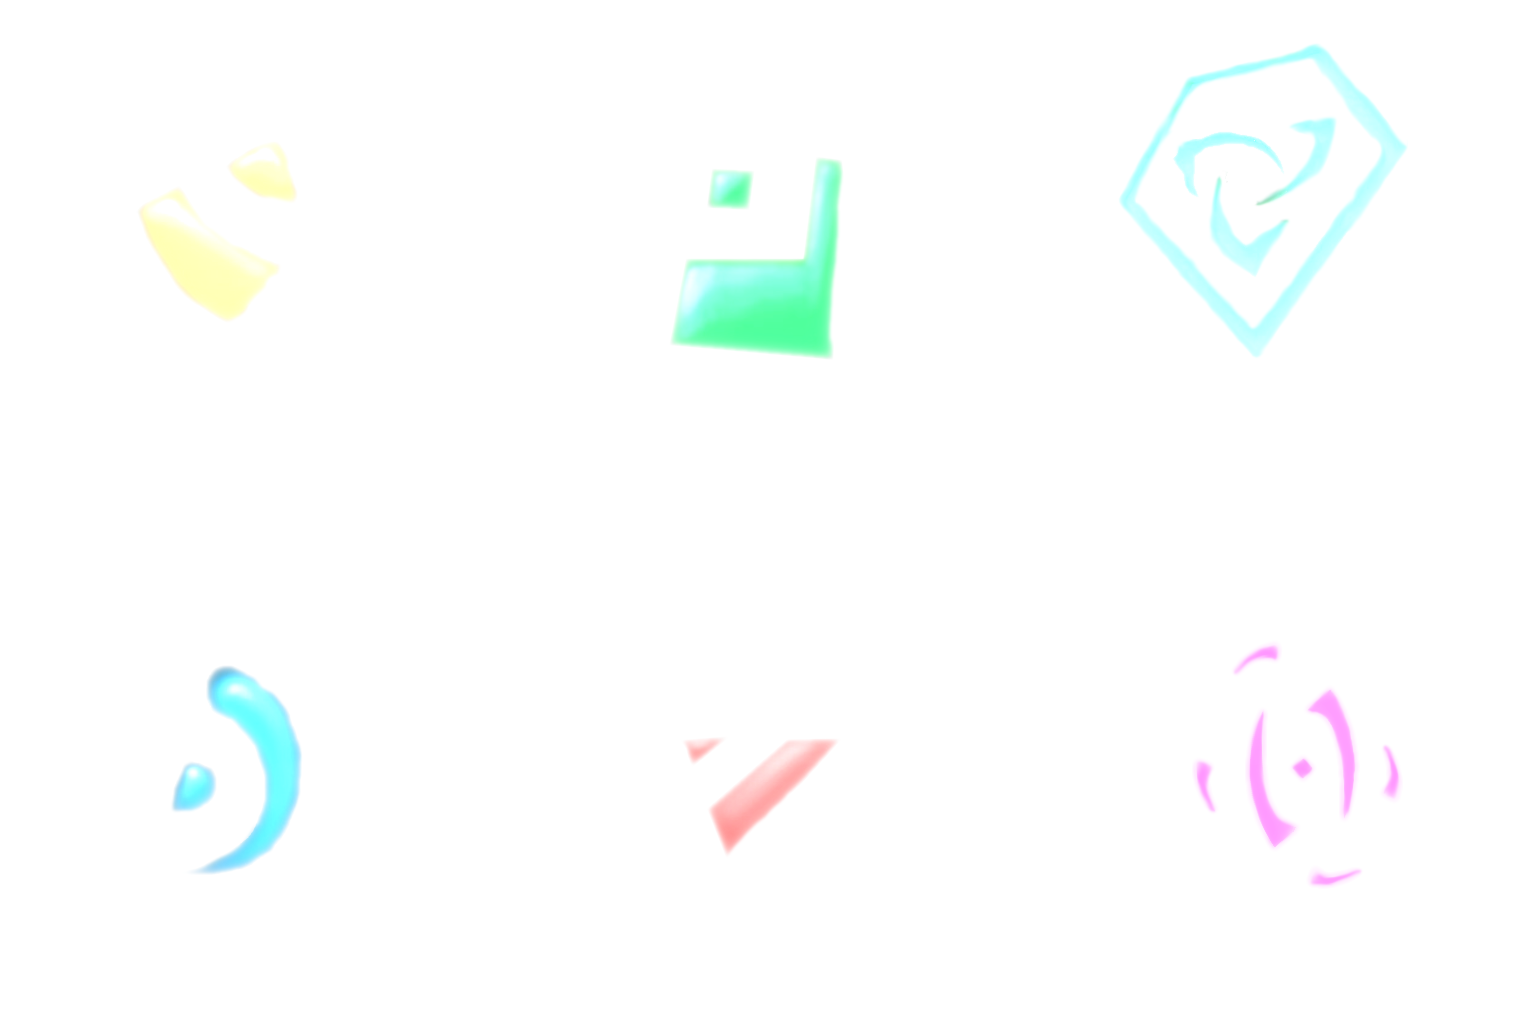
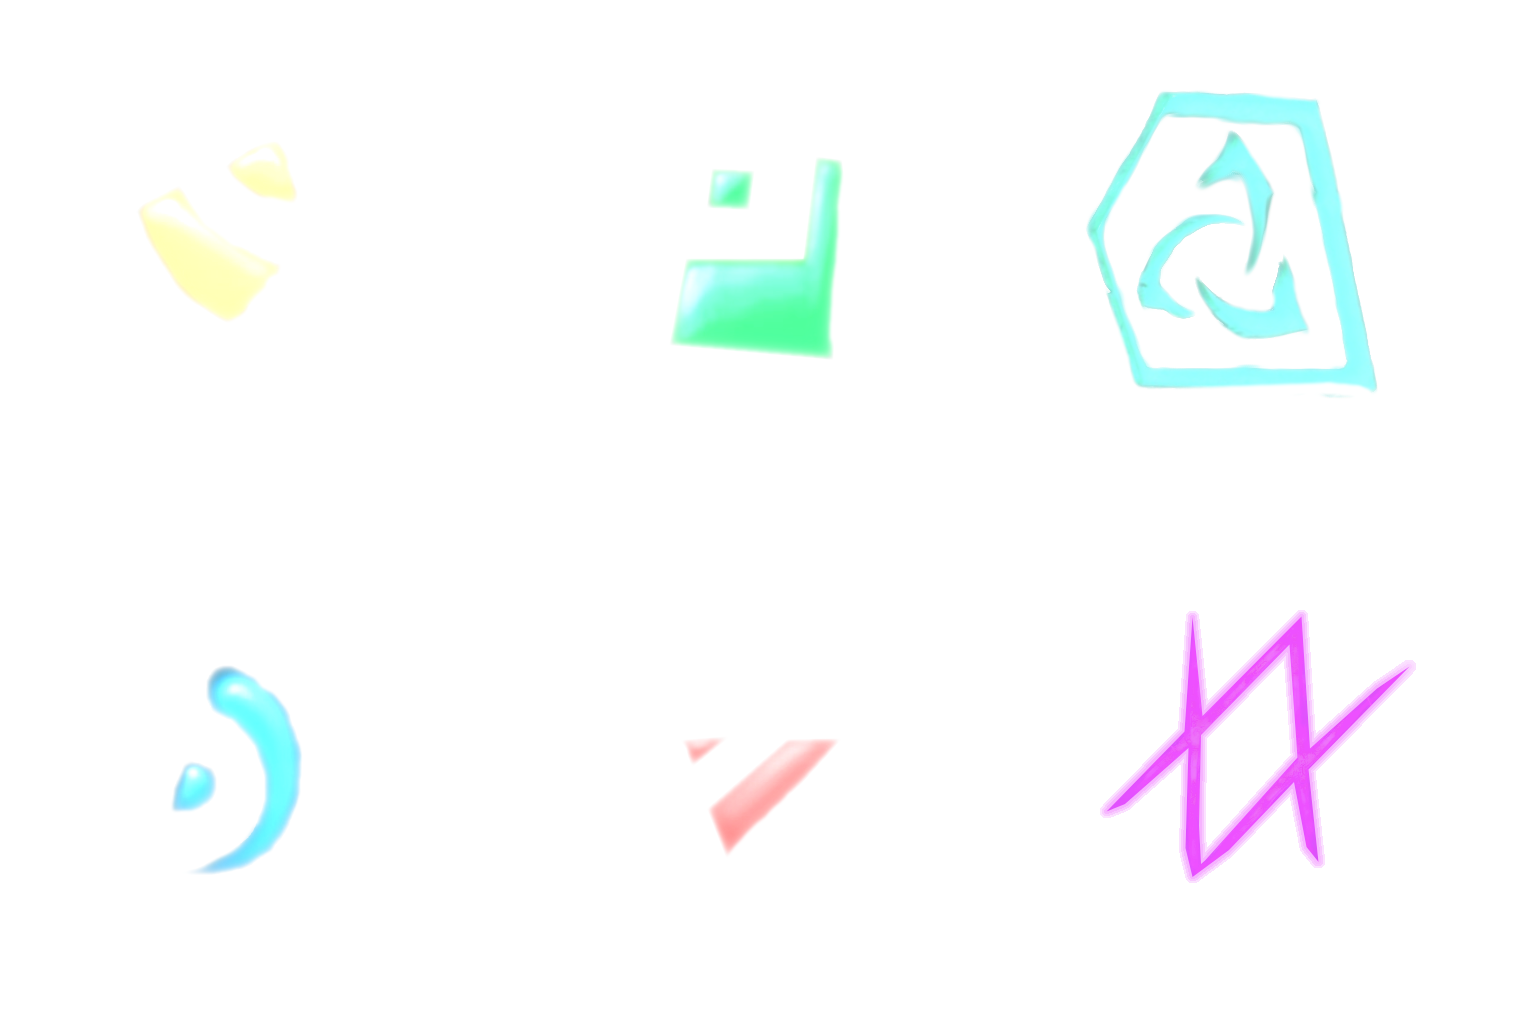
updated rune gfx + added firsts item behaviors. Next i have to implement Disease interface in order to modify the blob properties dynamically (and during a limited time)

Changed region(s): [[0.6875, 0.0312, 0.9375, 0.4062], [0.7188, 0.5938, 0.9375, 0.875]]

diff --git a/projects/blobmber/classes/Items.py b/projects/blobmber/classes/Items.py
@@ -1,0 +1,105 @@
+from arcade import SpriteList
+
+from projects.blobmber.classes.constants import Constants
+from utils.gfx_sfx import createAnimatedSprite, createParticleEmitter, utilsUpdateAnimation
+from utils.trigo import distance2
+
+
+class Items():
+
+    TYPE_FIRE     = 0
+    TYPE_KICK     = 1
+    TYPE_SPEED    = 2
+    TYPE_GAUNTLET = 3
+    TYPE_BOMB     = 4
+    TYPE_DISEASE  = 5
+    NB_TYPES      = 6
+
+    def addItem(self, x, y, w, h, type):
+        params = {
+            "filePath": "projects/blobmber/images/runes.png",
+            "position": (x, y + h*Constants.RUNE_OFFSET_KY),
+            "size": (w, h),
+            "spriteBox": (3, 2, 512, 512),
+            "frameDuration": 1,
+            "startIndex": type,
+            "endIndex": type,
+        }
+        rune = createAnimatedSprite(params)
+        params = {
+            "position": (x, y+h*Constants.RUNE_OFFSET_KY),
+            "filePath": "projects/blobmber/images/runes_front_light.png",
+            "spriteBox": (3, 2, 512, 512),
+            "spriteSelect": (type%3, type//3),
+            "partSize": 512,
+            "partScale": 1.05*w/512,
+            "partSpeed": 0.3,
+            "filterColor": (255, 255, 255, 255),
+            "startAlpha": 100,
+            "endAlpha": 0,
+            "partNB": 15,
+            "maxLifeTime": 1,
+        }
+        frontLight = createParticleEmitter(params)
+        params["filePath"]   = "projects/blobmber/images/runes_back_light.png"
+        params["startAlpha"]   = 75
+        params["partScale"] *= 1.30
+        params["partNB"]     = 15
+        params["partSpeed"]  *= 1.5
+        backLight = createParticleEmitter(params)
+        # add particles in rune
+        rune.frontLight = frontLight
+        rune.backLight  = backLight
+        rune.type       = type
+        # Add rune to the sprite list
+        self.runes.append(rune)
+
+    def __init__(self, blobs):
+        self.blobs = blobs
+        self.runes = SpriteList()
+
+    def update(self, deltaTime):
+        # toBeRemoved list
+        toBeRemoved = []
+        # Check collisions with players
+        for rune in self.runes:
+            # list for all potential pickers
+            pickers = []
+            for blob in self.blobs:
+                # collision test
+                if blob.isOvalColliding( (rune.center_x, rune.center_y), rune.width/6, rune.height/6 ):
+                    # add potential picker to the list
+                    pickers.append(blob)
+                    # remove this rune
+                    toBeRemoved.append(rune)
+            # Now compute the distances
+            if len(pickers) > 0:
+                minDist = 1000000000
+                nearest = None
+                for pck in pickers:
+                    d = distance2(rune.center_x, rune.center_y, pck.center_x, pck.center_y)
+                    if d < minDist:
+                        nearest = pck
+                        minDist = d
+                # Now store rune inside player
+                nearest.pickUpRune(rune)
+
+        # Remove all picked up runes
+        for tbr in toBeRemoved:
+            self.runes.remove(tbr)
+
+        # Update particle emitters
+        for rune in self.runes:
+            rune.frontLight.update()
+            rune.backLight.update()
+
+    def draw(self):
+        # backlight
+        for rune in self.runes:
+            rune.backLight.draw()
+        # stone runes
+        self.runes.draw()
+        # front light
+        for rune in self.runes:
+            rune.frontLight.draw()
+

diff --git a/projects/blobmber/classes/blob.py b/projects/blobmber/classes/blob.py
@@ -1,9 +1,10 @@
 import arcade
 
+from projects.blobmber.classes.Items import Items
 from projects.blobmber.classes.bubble import Bubble
 from projects.blobmber.classes.constants import Constants
 from utils.collisions import collision2Ellipses
-from utils.gfx_sfx import createAnimatedSprite
+from utils.gfx_sfx import createAnimatedSprite, utilsUpdateAnimation
 from utils.trigo import rotate
 
 
@@ -31,6 +32,8 @@ class Blob():
         self.radiusY = self.radiusX / Constants.BLOB_HW_RATIO
         self.color     = clr
         self.initColor = clr
+        # list of runes
+        self.runes = []
 
         params = {
             "filePath": "projects/blobmber/images/blob.png",
@@ -70,11 +73,25 @@ class Blob():
         self.x = x
         self.y = y
 
-    def addBomb(self):
+    def pickUpRune(self, rune):
+        self.runes.append(rune)
+        # apply effect according to rune
+        if rune.type == Items.TYPE_BOMB:
+            self.maxBombs   += 1
+            self.availBombs += 1
+        elif rune.type == Items.TYPE_FIRE:
+            self.power += 1
+        elif rune.type == Items.TYPE_SPEED:
+            self.speed += Constants.BLOB_MOVE_INC_SPEED
+        elif rune.type == Items.TYPE_DISEASE:
+            pass
+
+
+    def __addBomb(self):
         self.maxBombs   += 1
         self.availBombs += 1
 
-    def addPower(self):
+    def __addPower(self):
         self.power += 1
 
     def __getDirection(self):
@@ -105,9 +122,11 @@ class Blob():
         else:
             # Idle animation
             result = self.idles[self.lastDir]
+        # store current animation
         self.currentAnim = result
-        self.currentAnim.update_animation(deltaTime)
         self.currentAnim.color = self.color
+        # UPDATE ANIMATION (time based or not ? bug in arcade)
+        utilsUpdateAnimation(self.currentAnim, deltaTime)
 
     @property
     def center_x(self):

diff --git a/projects/blobmber/pages/cygame_ingame.py b/projects/blobmber/pages/cygame_ingame.py
@@ -3,7 +3,7 @@ import random
 
 import arcade
 
-from projects.blobmber.classes.Item import Item
+from projects.blobmber.classes.Items import Items
 from projects.blobmber.classes.blocks import Blocks
 from projects.blobmber.classes.blob import Blob
 from projects.blobmber.classes.constants import Constants
@@ -76,18 +76,17 @@ class CyGameInGame():
                 tile = createFixedSprite(params)
                 self.ground.append(tile)
 
-        self.items = []
-        for i in range(16):
+        self.items = Items(self.blobsY)
+        for i in range(20):
             type = random.randint(0,5)
             x = random.randint(0,6)*2 + 1
             y = random.randint(0,6)*2 + 1
-            self.items.append( Item(x*w, y*h, w*Constants.RUNE_SIZE_RATIO, h*Constants.RUNE_SIZE_RATIO, type) )
+            self.items.addItem(x * w, y * h, w * Constants.RUNE_SIZE_RATIO, h * Constants.RUNE_SIZE_RATIO, type)
 
     def update(self,deltaTime):
         if not self.isPaused:
             # update all items
-            for itm in self.items:
-                itm.update(deltaTime)
+            self.items.update(deltaTime)
             # sort blobs by Y
             self.blobsY = sorted(self.blobsY, key=lambda blb: -blb.center_y )
             for blob in self.blobsY:
@@ -107,8 +106,7 @@ class CyGameInGame():
         # Draw ground
         self.ground.draw()
         # Draw runes
-        for itm in self.items:
-            itm.draw()
+        self.items.draw()
         # Draw bubbles
         for bub in self.bubbles:
             bub.draw()

diff --git a/utils/gfx_sfx.py b/utils/gfx_sfx.py
@@ -64,6 +64,15 @@ def createFixedSprite(params):
 # ===========================================================================
 # Function to create a sprite that contains several frames (animation)
 # ===========================================================================
+def utilsUpdateAnimation(sprite, deltaTime):
+    # increase sprite ref time with current time
+    sprite.refTime += deltaTime
+    # Select texture according to time
+    frameNum = int(sprite.refTime / sprite.frameDuration) % sprite.nbFrames
+    sprite.set_texture(frameNum)
+    return frameNum
+
+
 def createAnimatedSprite(params):
     # retrieve parameters
     filePath      = params["filePath"  ]
@@ -105,8 +114,13 @@ def createAnimatedSprite(params):
     # set frame duration
     spr.texture_change_frames = int(frameduration*60 + 0.5)
 
+    # Add specific process of time animation
+    spr.refTime       = 0
+    spr.frameDuration = frameduration
+    spr.nbFrames      = endIndex - startIndex + 1
     # return sprite object
     return spr
+
 
 
 # ===========================================================================

diff --git a/projects/blobmber/classes/crates.py b/projects/blobmber/classes/crates.py
@@ -4,7 +4,7 @@ import arcade
 
 from projects.blobmber.classes.constants import Constants
 from utils.collisions import collisionCircleAABB, collisionEllipseAABB, collisionCircleEllipse, collision2AABB
-from utils.gfx_sfx import createAnimatedSprite, createFixedSprite
+from utils.gfx_sfx import createAnimatedSprite, createFixedSprite, utilsUpdateAnimation
 
 
 class Crates():
@@ -72,9 +72,9 @@ class Crates():
         # update explosions
         toBeRemoved = []
         for explo in self.exploCrates:
-            explo.update_animation(deltaTime)
+            numFrame = utilsUpdateAnimation(explo, deltaTime)
             # TODO destroy if animation is finished
-            if explo.cur_texture_index >= 11:
+            if numFrame >= 11:
                 toBeRemoved.append(explo)
         for tbr in toBeRemoved:
             self.exploCrates.remove(tbr)

diff --git a/projects/blobmber/classes/diseases/IDisease.py b/projects/blobmber/classes/diseases/IDisease.py
@@ -1,0 +1,24 @@
+
+
+class IDisease():
+
+    def __init__(self, params):
+        # Params to be restored by the creator
+        self.params = params
+
+    # used to provide infinite bombs or reduce to 1
+    def getMaxBombs(self):
+        raise Exception("Method not implemented yet !!")
+
+    # used for "no bomb" disease or for "auto-drop" disease
+    def isDroppingBomb(self):
+        raise Exception("Method not implemented yet !!")
+
+    # Used to minimize or maximize fire
+    def getMaxPower(self):
+        raise Exception("Method not implemented yet !!")
+
+    # used for "very slow" disease or "ultra speed" disease
+    def getMaxSpeed(self):
+        raise Exception("Method not implemented yet !!")
+

diff --git a/projects/blobmber/classes/bubble.py b/projects/blobmber/classes/bubble.py
@@ -5,7 +5,7 @@ import arcade
 
 from projects.blobmber.classes.constants import Constants
 from utils.collisions import collision2Ellipses, collisionCircleEllipse, collisionCircleAABB, collisionEllipseAABB
-from utils.gfx_sfx import createAnimatedSprite
+from utils.gfx_sfx import createAnimatedSprite, utilsUpdateAnimation
 
 
 class Bubble():
@@ -138,7 +138,7 @@ class Bubble():
 
     def update(self,deltaTime):
         self.countdown -= deltaTime
-        self.bubble.update_animation(deltaTime)
+        utilsUpdateAnimation(self.bubble, deltaTime)
         self.bubble.center_x = self.initPos[0]
         self.bubble.center_y = self.initPos[1]
         # generate explosions

diff --git a/projects/blobmber/classes/select_player.py b/projects/blobmber/classes/select_player.py
@@ -3,7 +3,7 @@ import random
 import arcade.color
 
 from projects.blobmber.classes.constants import Constants
-from utils.gfx_sfx import createAnimatedSprite, createFixedSprite
+from utils.gfx_sfx import createAnimatedSprite, createFixedSprite, utilsUpdateAnimation
 
 
 class SelectPlayer():
@@ -72,7 +72,7 @@ class SelectPlayer():
         self.blob.center_y = self.blob.center_y * 0.95 + self.target[1] * 0.05
         # update anim
         if anim:
-            self.blob.update_animation(deltaTime)
+            utilsUpdateAnimation(self.blob, deltaTime)
         else:
             self.blob.set_texture(0)
 

diff --git a/utils/trigo.py b/utils/trigo.py
@@ -1,6 +1,13 @@
 import math
 
 
+def distance2(x1, y1, x2, y2):
+    dx = x1-x2
+    dy = y1-y2
+    return dx*dx + dy*dy
+
+
+
 # ===========================================================================
 # Function to get a position of a rotated point
 # ===========================================================================

diff --git a/projects/blobmber/classes/constants.py b/projects/blobmber/classes/constants.py
@@ -35,6 +35,7 @@ class Constants():
     ]
     BLOB_HW_RATIO      = 1.0
     BLOB_MOVE_SPEED    = 150   # pix per sec
+    BLOB_MOVE_INC_SPEED= 30
     BLOB_FRAME_SPEED   = 1/35  # sec per frame
     BLOB_SIZE_COEF     = 2.0
     BLOB_REDUCE_FACTOR = 4
